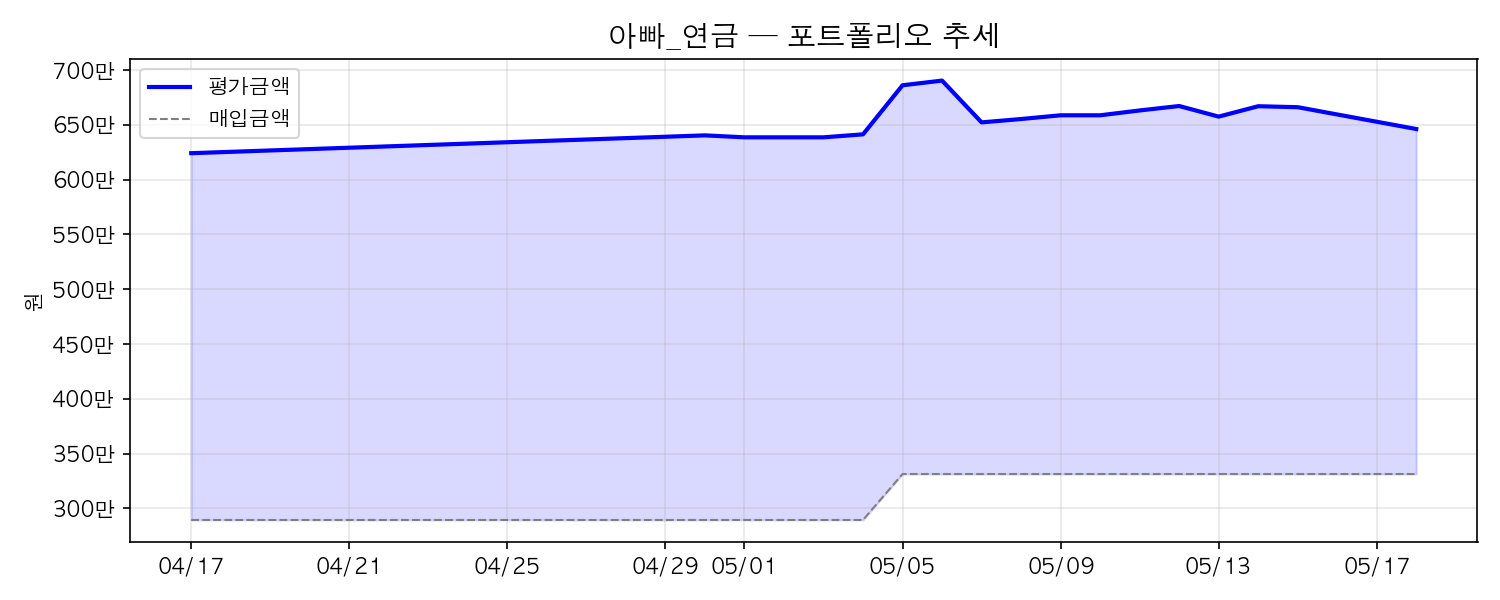
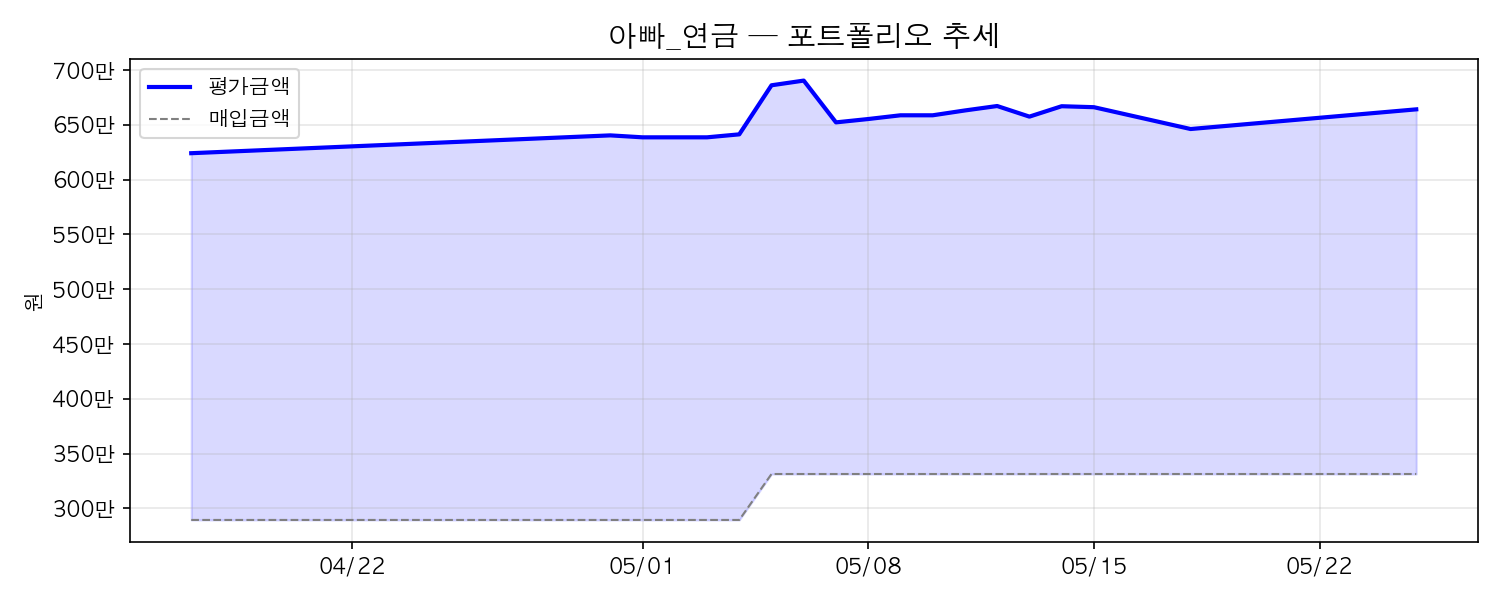
섹션별 주간 리포트 (자동 생성)

diff --git a/_posts/2026-05-29-etf-weekly-week8.md b/_posts/2026-05-29-etf-weekly-week8.md
@@ -1,0 +1,56 @@
+---
+layout: post
+title: "Week 8 — 부모님 연금 ETF 주간 리포트"
+date: 2026-05-29
+categories: [investing, etf]
+tags: [weekly]
+---
+
+> 부모님 연금저축 ETF 실험 — 8주차 기록.
+
+---
+
+## 8주차 성과
+
+### 엄마_연금
+
+| 종목 | 수량 | 평단가 | 종가 | 평가액 | 수익률 |
+|------|------|--------|------|--------|--------|
+| RISE 200 | 9주 | ₩80,163 | ₩124,320 | ₩1,118,880 | +55.1% |
+| ACE KRX금현물 | 30주 | ₩31,652 | ₩30,325 | ₩909,750 | -4.2% |
+| KODEX 미국S&P500 | 31주 | ₩22,651 | ₩25,615 | ₩794,065 | +13.1% |
+| TIGER Fn신재생에너지 | 14주 | ₩25,225 | ₩35,870 | ₩502,180 | +42.2% |
+| KODEX 인도Nifty50 | 29주 | ₩12,520 | ₩12,710 | ₩368,590 | +1.5% |
+| TIGER 원유선물Enhanced(H) | 24주 | ₩6,925 | ₩7,730 | ₩185,520 | +11.6% |
+
+**투자 ₩3,255,618 → 평가 ₩3,878,985 | +623,367원 (+19.1%)**
+
+예수금: ₩3,348,268
+---
+
+### 아빠_연금
+
+| 종목 | 수량 | 평단가 | 종가 | 평가액 | 수익률 |
+|------|------|--------|------|--------|--------|
+| RISE 200 | 9주 | ₩80,165 | ₩124,320 | ₩1,118,880 | +55.1% |
+| ACE KRX금현물 | 30주 | ₩31,653 | ₩30,325 | ₩909,750 | -4.2% |
+| KODEX 미국S&P500 | 31주 | ₩22,649 | ₩25,615 | ₩794,065 | +13.1% |
+| TIGER Fn신재생에너지 | 14주 | ₩25,230 | ₩35,870 | ₩502,180 | +42.2% |
+| KODEX 인도Nifty50 | 29주 | ₩12,530 | ₩12,710 | ₩368,590 | +1.4% |
+| TIGER 원유선물Enhanced(H) | 24주 | ₩6,912 | ₩7,730 | ₩185,520 | +11.8% |
+| ACE TDF2030액티브 적격 | 3주 | ₩11,115 | ₩11,470 | ₩34,410 | +3.2% |
+| PLUS 고배당주 | 1주 | ₩25,370 | ₩27,230 | ₩27,230 | +7.3% |
+
+**투자 ₩3,314,403 → 평가 ₩3,940,625 | +626,222원 (+18.9%)**
+
+예수금: ₩2,699,932
+
+
+## 5월 월간 정리
+
+- **엄마_연금**: 월초 +13.3% → 월말 +19.1% (+5.8%p)
+- **아빠_연금**: 월초 +13.1% → 월말 +18.9% (+5.8%p)
+
+---
+
+*데이터: 한국투자증권 KIS Open API / 2026-05-29 장 마감 기준*

diff --git a/_posts/2026-05-29-dividend-weekly-week8.md b/_posts/2026-05-29-dividend-weekly-week8.md
@@ -1,0 +1,42 @@
+---
+layout: post
+title: "Week 8 — ISA 배당 포트 주간 리포트"
+date: 2026-05-29
+categories: [investing, dividend]
+tags: [weekly]
+---
+
+> ISA 배당 포트폴리오 — 8주차 기록.
+
+---
+
+## 8주차 성과
+
+### 한투_ISA
+
+| 종목 | 수량 | 평단가 | 종가 | 평가액 | 수익률 |
+|------|------|--------|------|--------|--------|
+| 삼성화재우 | 5주 | ₩374,400 | ₩393,000 | ₩1,965,000 | +5.0% |
+| KT&G | 9주 | ₩167,378 | ₩188,000 | ₩1,692,000 | +12.3% |
+| 고려신용정보 | 160주 | ₩10,281 | ₩9,920 | ₩1,587,200 | -3.5% |
+| 빙그레 | 21주 | ₩74,421 | ₩73,300 | ₩1,539,300 | -1.5% |
+| KODEX 고배당주 | 76주 | ₩18,028 | ₩18,490 | ₩1,405,240 | +2.6% |
+| KODEX 반도체 | 1주 | ₩154,805 | ₩155,500 | ₩155,500 | +0.4% |
+| KODEX 에너지화학 | 9주 | ₩15,525 | ₩16,705 | ₩150,345 | +7.6% |
+
+**투자 ₩8,250,840 → 평가 ₩8,494,585 | +243,745원 (+3.0%)**
+
+예수금: ₩491,827
+
+**이번 주 배당 입금:**
+
+- 2026-05-25 배당금: ₩420,622
+
+
+## 5월 월간 정리
+
+- **한투_ISA**: 월초 +1.1% → 월말 +3.0% (+1.9%p)
+
+---
+
+*데이터: 한국투자증권 KIS Open API / 2026-05-29 장 마감 기준*
